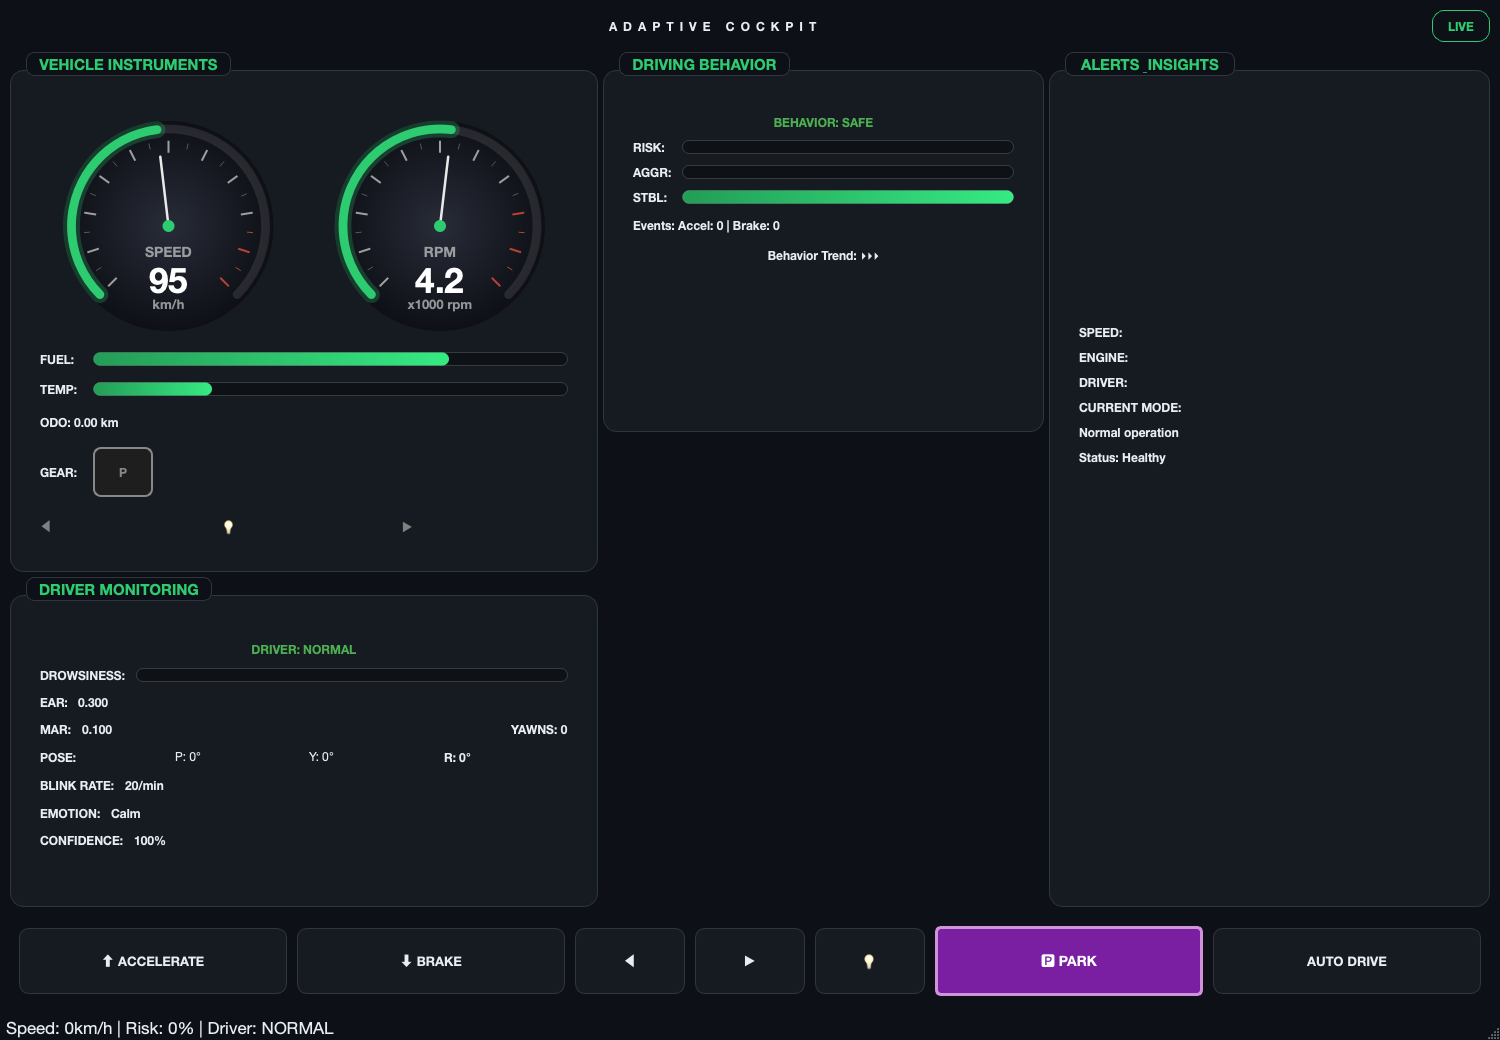
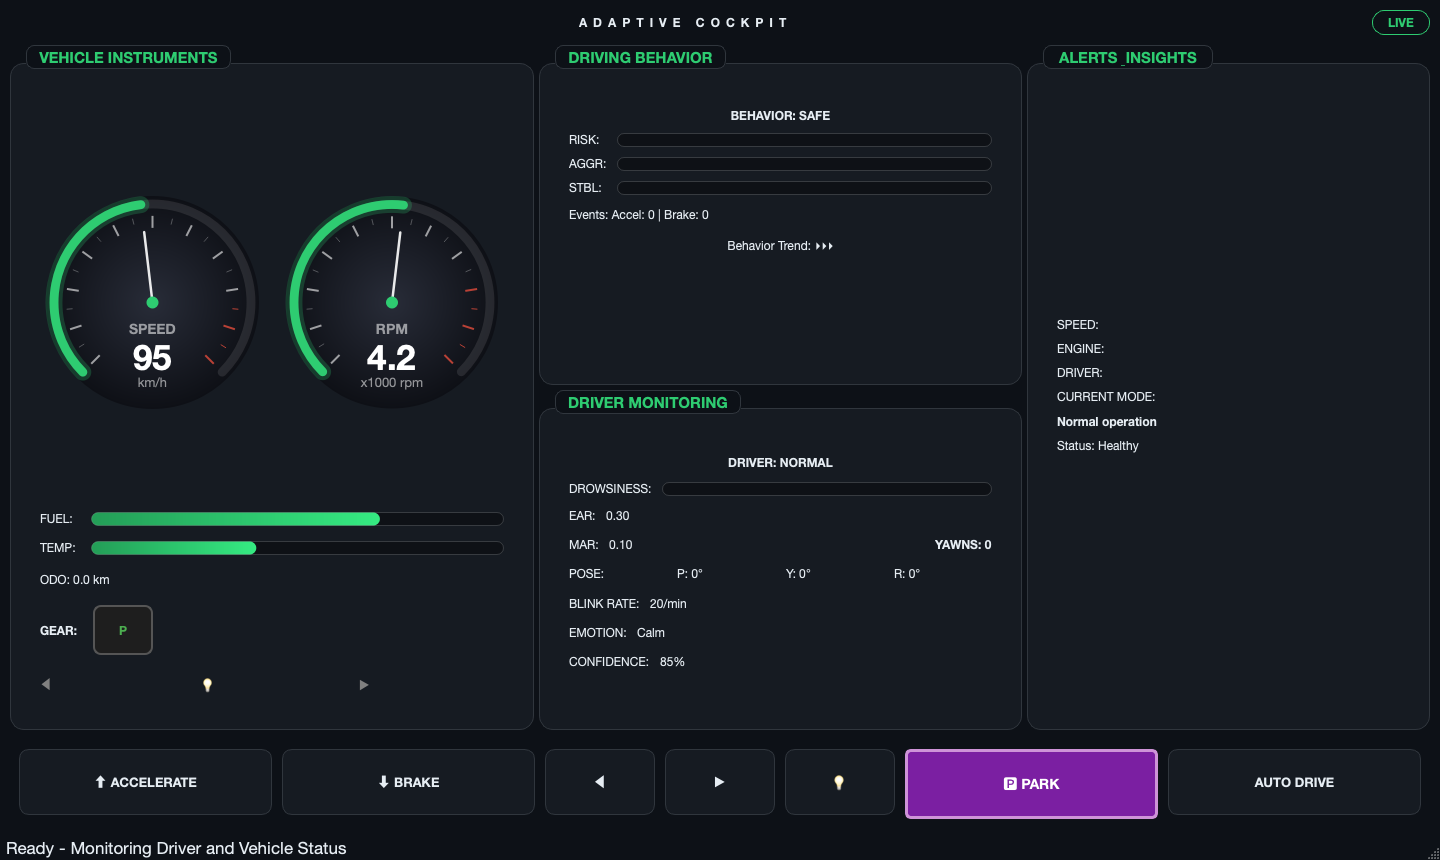
Update README with demo guide, camera notes and screenshots

diff --git a/README.md b/README.md
@@ -6,6 +6,10 @@ An automotive HMI simulator that watches the **driver** (webcam + computer visio
 
 ![Dashboard](docs/images/dashboard.png)
 
+<sub>Danger theme (critical state): red gauges and bars, minimal UI.</sub>
+
+![Danger theme](docs/images/theme_danger.png)
+
 ## Features
 
 - **Driver monitoring**: Eye Aspect Ratio (drowsiness), Mouth Aspect Ratio (yawns), head pose, blink rate and emotion recognition (OpenCV + MediaPipe, optional Keras model).
@@ -120,6 +124,17 @@ cd src && python main.py
 On first run macOS asks for camera permission. Without a webcam the vehicle simulation and UI still run.
 
 **Emotion model:** the trained `emotion_model.h5` (about 43 MB) is not stored in git. Place your own model at the project root; the monitor falls back to the geometric features (EAR/MAR/pose) when it is absent.
+
+### Camera permission (macOS)
+
+macOS grants camera access to the app that launches Python, so run `main.py` from your own Terminal and click **Allow** on the prompt. If you see `not authorized to capture video`, enable the terminal under System Settings → Privacy & Security → Camera, then fully restart it. Without a camera, the dashboard still runs; only driver monitoring (EAR, MAR, emotion) stays idle.
+
+### Demo
+
+1. Start the app (command above). The window sizes itself to your screen.
+2. Press **Auto Drive** for random driving, or hold **Accelerate / Brake** yourself.
+3. Push speed past the limit or let temperature rise and watch the gauges change colour and alerts appear.
+4. With the camera on, close your eyes for a few seconds: drowsiness rises and the theme shifts Standard → Alert → Danger.
 
 ### Controls
 
